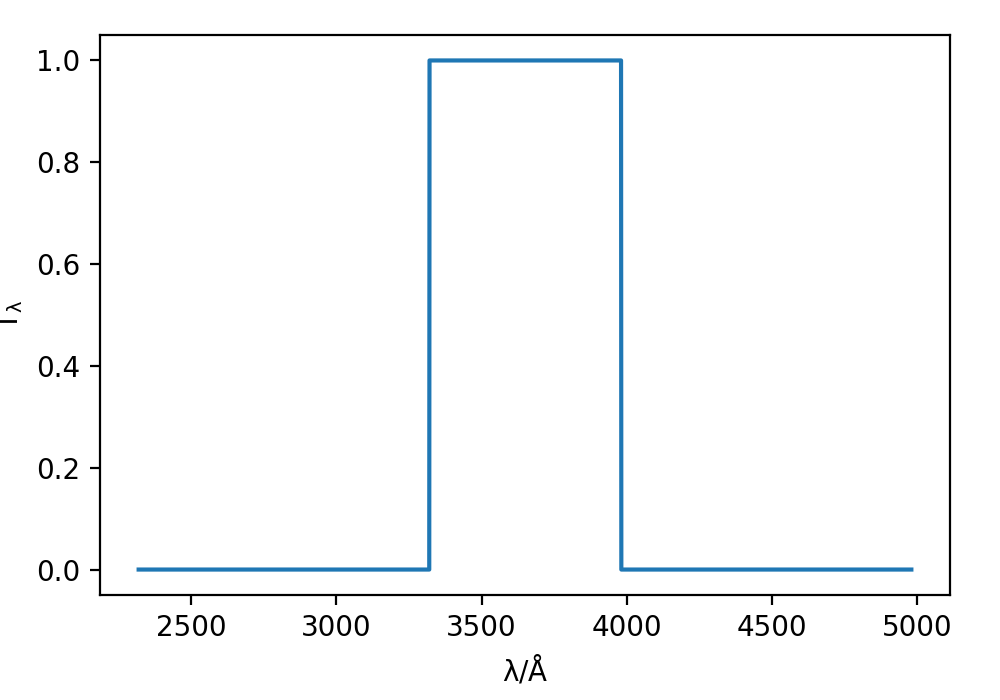
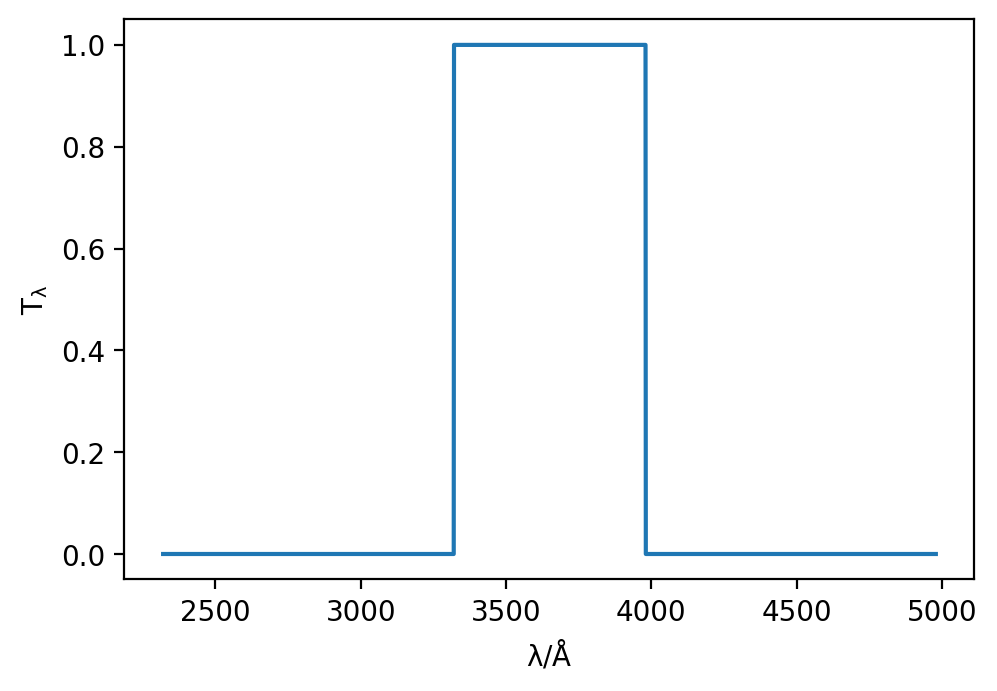
fixed images and headings

Changed region(s): [[0.0311, 0.0, 0.995, 0.9725], [0.0, 0.4255, 0.0311, 0.4863]]

diff --git a/docs/source/filters.rst b/docs/source/filters.rst
@@ -1,5 +1,5 @@
 Filters
-#######
+*******
 
 Synthesizer allows us to define filters quite flexibly.
 The `filters.py` example in the `examples` directory demonstrates this.
